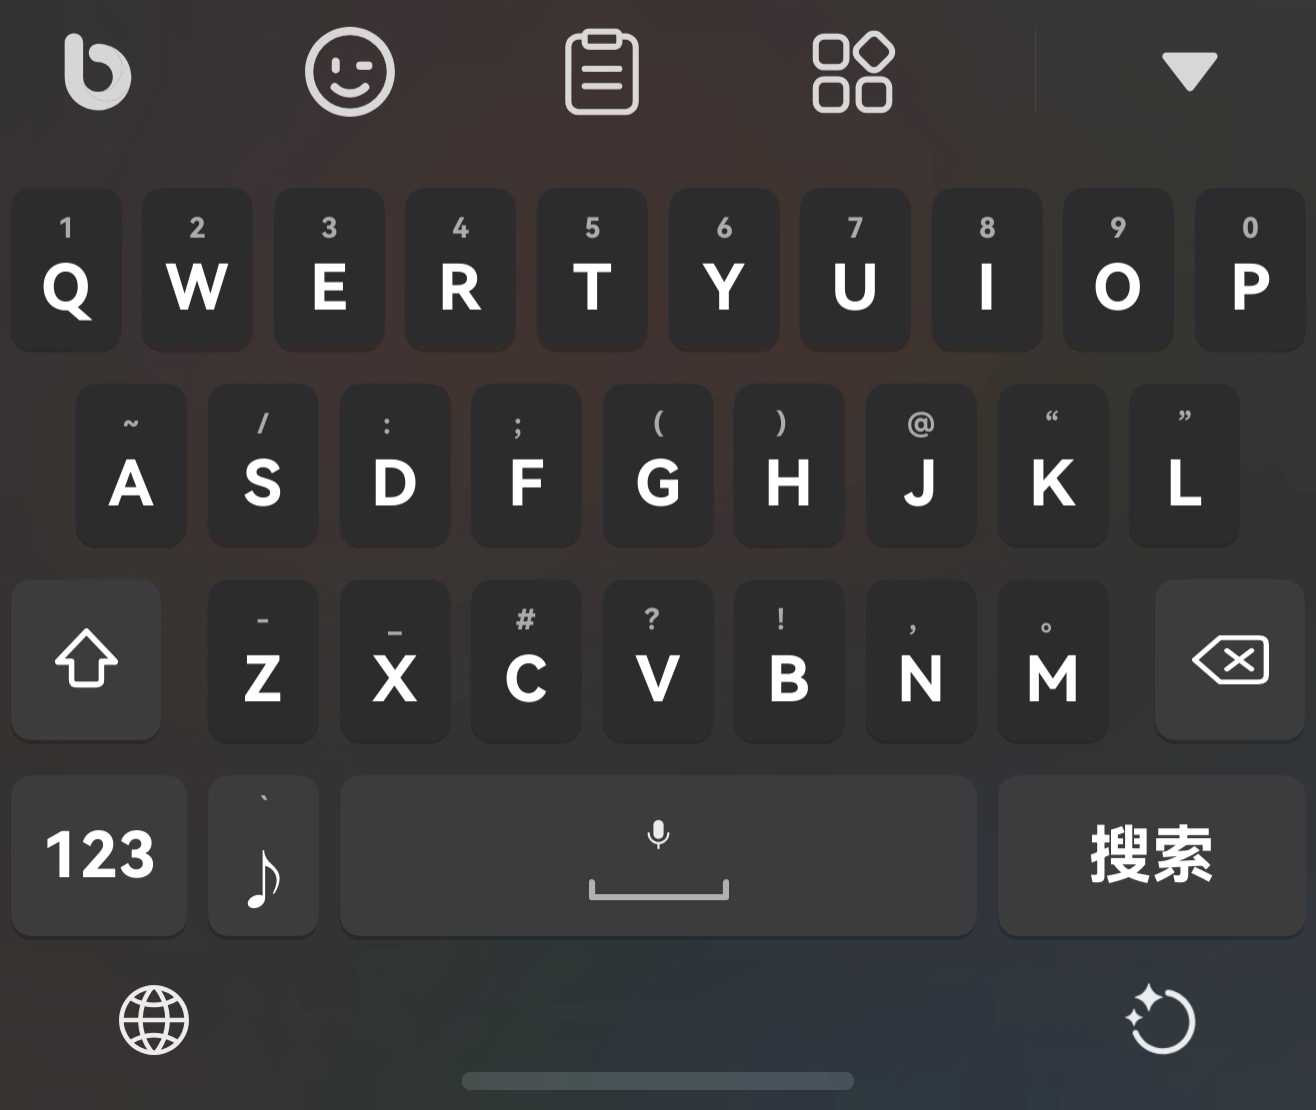
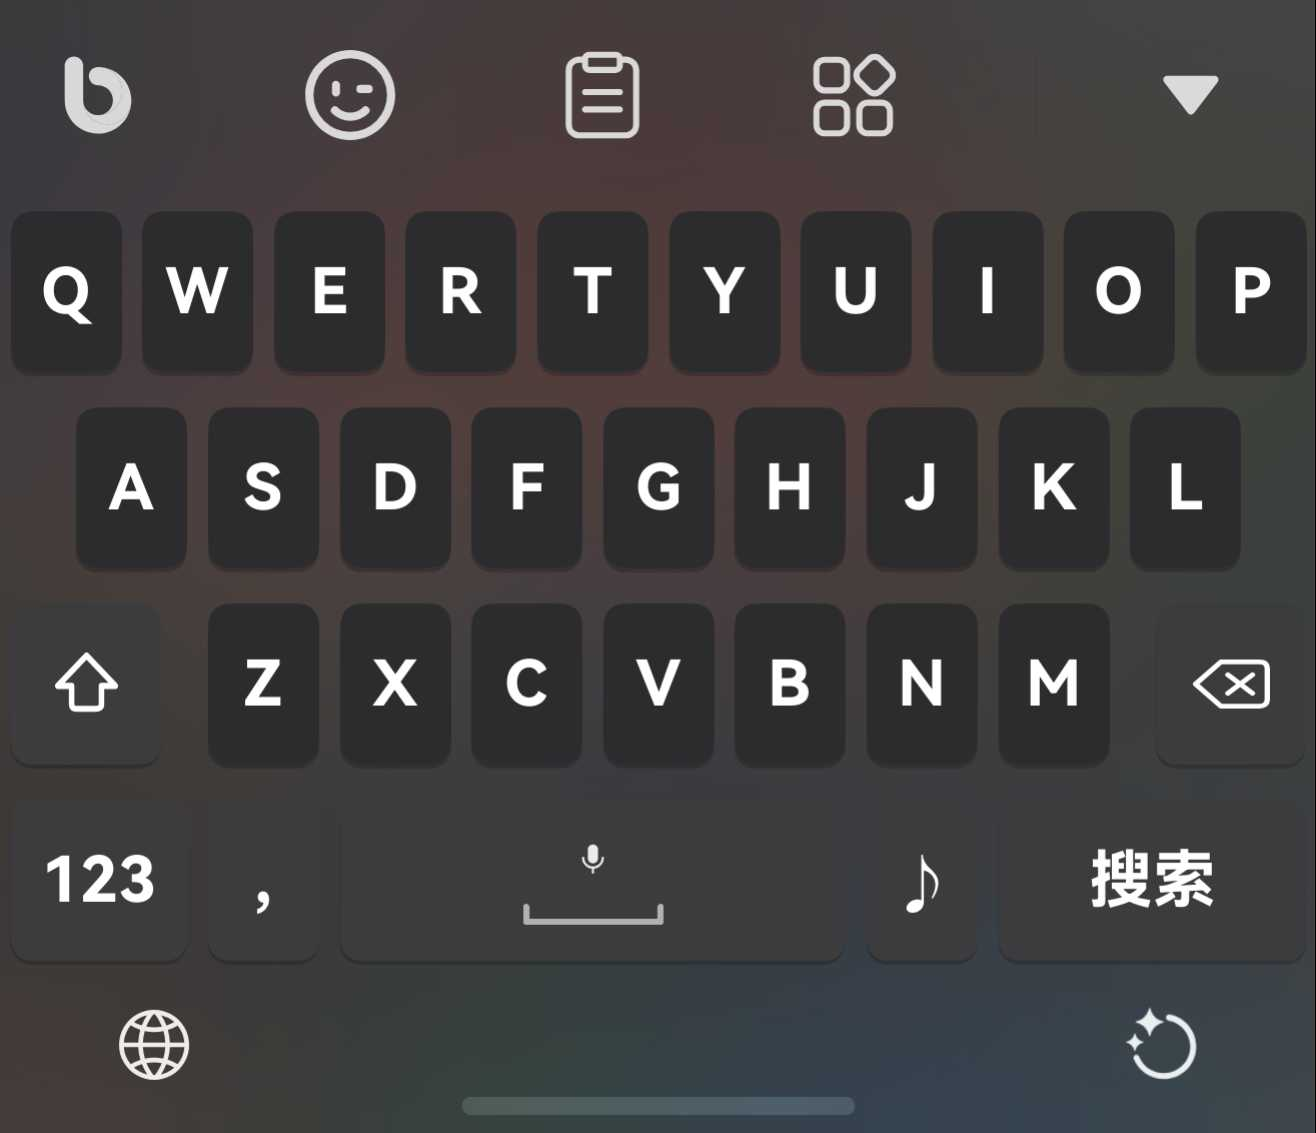
微调+更新图片

diff --git a/README.md b/README.md
@@ -6,7 +6,7 @@
 
 基于原主题修改内容：
 
-1、移除“中/英”&“数字”切换按钮，将其集成至符号按键「长按符号键进行中英切换、上滑符号键进入数字键盘」
+1、移除“中/英”切换按钮，将其集成至数字按键「长按符号键进行中英切换」
 
 2、添加“ ♪ ”引导按键「实际上是分号+上滑`反查」可配合快符词库进行自定。
 
@@ -23,9 +23,9 @@
 
 基于原主题修改内容：
 
-1、移除“中/英”&“数字”切换按钮，将其集成至符号按键「长按符号键进行中英切换、上滑符号键进入数字键盘」
+1、移除“中/英”切换按钮，将其集成至数字按键「长按符号键进行中英切换」
 
-2、添加“ ♪ ”引导按键「实际上是分号+上滑`反查」可配合快符词库进行自定。
+2、添加“ ♪ ”引导按键「实际上是分号+上滑句号」可配合快符词库进行自定；空格左侧为逗号+上滑问号；使用“z”上滑进行反查。
 
 3、英文键盘做了习惯性的处理，空格左边加了“ @ ”按键，右边为“ . ”
 
